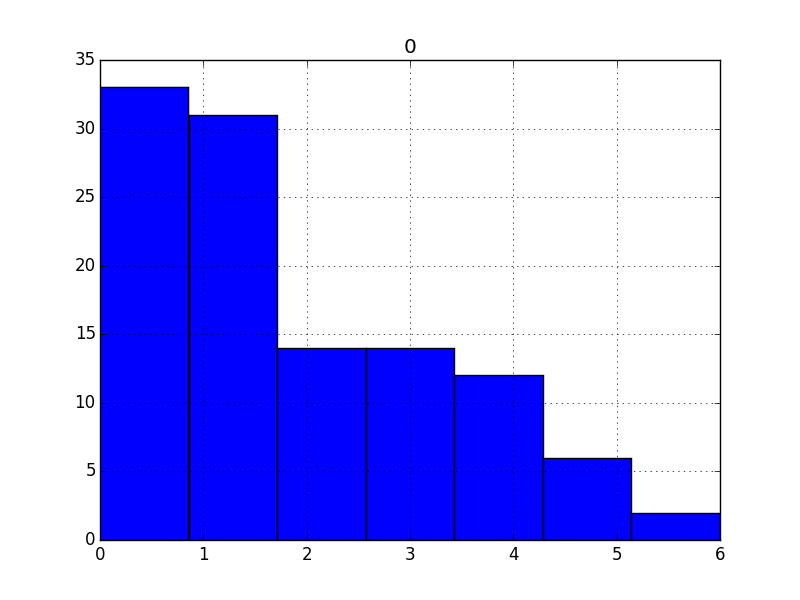
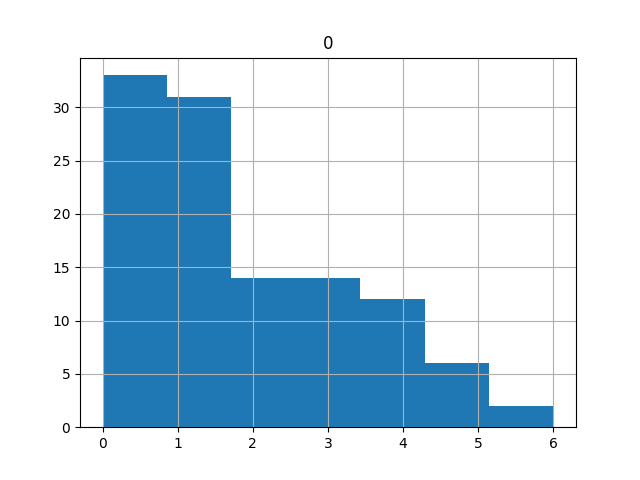
-

diff --git a/stat/stat_100_coal/degisim_noktasi_analizi__changepoint_analysis_.html b/stat/stat_100_coal/degisim_noktasi_analizi__changepoint_analysis_.html
@@ -138,29 +138,23 @@ class="sourceCode python"><code class="sourceCode python"><span id="cb3-1"><a hr
 <span id="cb3-19"><a href="#cb3-19" aria-hidden="true" tabindex="-1"></a></span>
 <span id="cb3-20"><a href="#cb3-20" aria-hidden="true" tabindex="-1"></a>out <span class="op">=</span> minimize(residual, fit_params, args<span class="op">=</span>(coal,coal,))</span>
 <span id="cb3-21"><a href="#cb3-21" aria-hidden="true" tabindex="-1"></a>report_fit(fit_params)</span></code></pre></div>
-<pre><code>[[Variables]]
-    m1:     0.51428096 +/- 0.406949 (79.13%) (init= 0.5)
-    lam1:   1.00000004 +/- 0.557045 (55.70%) (init= 1)
-    lam2:   3.35150806 +/- 1.791094 (53.44%) (init= 2)
-[[Correlations]] (unreported correlations are &lt;  0.100)
-    C(m1, lam1)                  =  0.905 
-    C(m1, lam2)                  =  0.878 
-    C(lam1, lam2)                =  0.772 </code></pre>
+<pre class="text"><code>[[Variables]]
+    m1:    0.50000000 (init = 0.5)
+    lam1:  1.00000000 (init = 1)
+    lam2:  2.00000000 (init = 2)</code></pre>
 <p>Sonuçlar yaklaşık <span
 class="math inline">\(\lambda_1=1,\lambda_2=3\)</span> (tam sayıya
 yuvarladık, çünkü olay sayısı tam sayı olmalı). Bu iki dağılımı verinini
 normalize edilmiş histogramı üzerinde gösterirsek,</p>
 <div class="sourceCode" id="cb5"><pre
 class="sourceCode python"><code class="sourceCode python"><span id="cb5-1"><a href="#cb5-1" aria-hidden="true" tabindex="-1"></a><span class="im">from</span> scipy.stats.distributions <span class="im">import</span> poisson</span>
-<span id="cb5-2"><a href="#cb5-2" aria-hidden="true" tabindex="-1"></a>coal.hist(bins<span class="op">=</span><span class="dv">7</span>,normed<span class="op">=</span><span class="va">True</span>)</span>
-<span id="cb5-3"><a href="#cb5-3" aria-hidden="true" tabindex="-1"></a>plt.hold(<span class="va">True</span>)</span>
-<span id="cb5-4"><a href="#cb5-4" aria-hidden="true" tabindex="-1"></a>p <span class="op">=</span> poisson(<span class="fl">1.0</span>)</span>
-<span id="cb5-5"><a href="#cb5-5" aria-hidden="true" tabindex="-1"></a>x <span class="op">=</span> np.arange(<span class="dv">1</span>,<span class="dv">10</span>)</span>
-<span id="cb5-6"><a href="#cb5-6" aria-hidden="true" tabindex="-1"></a>plt.plot(x, p.pmf(x))</span>
-<span id="cb5-7"><a href="#cb5-7" aria-hidden="true" tabindex="-1"></a>p <span class="op">=</span> poisson(<span class="fl">3.0</span>)</span>
-<span id="cb5-8"><a href="#cb5-8" aria-hidden="true" tabindex="-1"></a>plt.hold(<span class="va">True</span>)</span>
-<span id="cb5-9"><a href="#cb5-9" aria-hidden="true" tabindex="-1"></a>plt.plot(x, p.pmf(x))</span>
-<span id="cb5-10"><a href="#cb5-10" aria-hidden="true" tabindex="-1"></a>plt.savefig(<span class="st">&#39;stat_coal_03.png&#39;</span>)</span></code></pre></div>
+<span id="cb5-2"><a href="#cb5-2" aria-hidden="true" tabindex="-1"></a>coal.hist(bins<span class="op">=</span><span class="dv">7</span>,density<span class="op">=</span><span class="va">True</span>)</span>
+<span id="cb5-3"><a href="#cb5-3" aria-hidden="true" tabindex="-1"></a>p <span class="op">=</span> poisson(<span class="fl">1.0</span>)</span>
+<span id="cb5-4"><a href="#cb5-4" aria-hidden="true" tabindex="-1"></a>x <span class="op">=</span> np.arange(<span class="dv">1</span>,<span class="dv">10</span>)</span>
+<span id="cb5-5"><a href="#cb5-5" aria-hidden="true" tabindex="-1"></a>plt.plot(x, p.pmf(x))</span>
+<span id="cb5-6"><a href="#cb5-6" aria-hidden="true" tabindex="-1"></a>p <span class="op">=</span> poisson(<span class="fl">3.0</span>)</span>
+<span id="cb5-7"><a href="#cb5-7" aria-hidden="true" tabindex="-1"></a>plt.plot(x, p.pmf(x))</span>
+<span id="cb5-8"><a href="#cb5-8" aria-hidden="true" tabindex="-1"></a>plt.savefig(<span class="st">&#39;stat_coal_03.png&#39;</span>)</span></code></pre></div>
 <p><img src="stat_coal_03.png" /></p>
 <p>Peki bu bulguyu şimdi değişim noktası keşfine nasıl çevireceğiz?
 Dikkat, üstteki iki dağılımın ayrıldığı <span
@@ -217,8 +211,8 @@ class="sourceCode python"><code class="sourceCode python"><span id="cb6-1"><a hr
 <span id="cb6-12"><a href="#cb6-12" aria-hidden="true" tabindex="-1"></a>     chi <span class="op">=</span> z1<span class="op">**</span><span class="dv">2</span><span class="op">+</span>z2<span class="op">**</span><span class="dv">2</span></span>
 <span id="cb6-13"><a href="#cb6-13" aria-hidden="true" tabindex="-1"></a>     res.append(<span class="bu">float</span>(<span class="dv">1</span><span class="op">-</span>chi2.cdf(chi,dof)))</span>
 <span id="cb6-14"><a href="#cb6-14" aria-hidden="true" tabindex="-1"></a></span>
-<span id="cb6-15"><a href="#cb6-15" aria-hidden="true" tabindex="-1"></a><span class="bu">print</span> <span class="dv">1851</span> <span class="op">+</span> cutoffs[np.array(res).argmax()]</span></code></pre></div>
-<pre><code>1885</code></pre>
+<span id="cb6-15"><a href="#cb6-15" aria-hidden="true" tabindex="-1"></a><span class="bu">print</span> (<span class="dv">1851</span> <span class="op">+</span> cutoffs[np.array(res).argmax()])</span></code></pre></div>
+<pre class="text"><code>1885</code></pre>
 <p>Tarihten biliyoruz ki değişimin sebebi büyük ihtimalle İngiltere’de
 1887 yılında kanunlaşan <em>Kömür Madenleri Yasası</em>’dır [3].
 Yakınlık fena değil.</p>
@@ -459,11 +453,11 @@ class="sourceCode python"><code class="sourceCode python"><span id="cb8-1"><a hr
 <span id="cb8-32"><a href="#cb8-32" aria-hidden="true" tabindex="-1"></a>        <span class="co"># sample</span></span>
 <span id="cb8-33"><a href="#cb8-33" aria-hidden="true" tabindex="-1"></a>        zz <span class="op">=</span> z <span class="op">/</span> <span class="bu">sum</span>(z)</span>
 <span id="cb8-34"><a href="#cb8-34" aria-hidden="true" tabindex="-1"></a>        k <span class="op">=</span> w_choice(zz)</span>
-<span id="cb8-35"><a href="#cb8-35" aria-hidden="true" tabindex="-1"></a>    <span class="bu">print</span> <span class="bu">float</span>(theta), <span class="bu">float</span>(lam), <span class="bu">float</span>(k)</span>
+<span id="cb8-35"><a href="#cb8-35" aria-hidden="true" tabindex="-1"></a>    <span class="bu">print</span> (<span class="bu">float</span>(theta), <span class="bu">float</span>(lam), <span class="bu">float</span>(k))</span>
 <span id="cb8-36"><a href="#cb8-36" aria-hidden="true" tabindex="-1"></a>                </span>
 <span id="cb8-37"><a href="#cb8-37" aria-hidden="true" tabindex="-1"></a>data <span class="op">=</span> np.loadtxt(<span class="st">&quot;coal.txt&quot;</span>)</span>
 <span id="cb8-38"><a href="#cb8-38" aria-hidden="true" tabindex="-1"></a>coal(<span class="dv">1100</span>, data, init<span class="op">=</span>[<span class="dv">1</span>,<span class="dv">1</span>,<span class="dv">30</span>], a1<span class="op">=</span><span class="dv">1</span>,a2<span class="op">=</span><span class="dv">1</span>,b1<span class="op">=</span><span class="dv">1</span>,b2<span class="op">=</span><span class="dv">1</span>)</span></code></pre></div>
-<pre><code>3.32561369453 0.931821137936 42.0</code></pre>
+<pre class="text"><code>3.3256136945319414 0.9318211379358856 42.0</code></pre>
 <p>Kodları işletince elimize k = 42 değeri geçecek, yani değişim anı
 1851+42 = 1893 senesidir. Kaynaklar:</p>
 <p>[1] Ioana A. Cosma, Ludger Evers, <em>Markov Chain Monte Carlo

diff --git a/stat/stat_100_coal/stat_100_coal.html b/stat/stat_100_coal/stat_100_coal.html
@@ -138,29 +138,23 @@ class="sourceCode python"><code class="sourceCode python"><span id="cb3-1"><a hr
 <span id="cb3-19"><a href="#cb3-19" aria-hidden="true" tabindex="-1"></a></span>
 <span id="cb3-20"><a href="#cb3-20" aria-hidden="true" tabindex="-1"></a>out <span class="op">=</span> minimize(residual, fit_params, args<span class="op">=</span>(coal,coal,))</span>
 <span id="cb3-21"><a href="#cb3-21" aria-hidden="true" tabindex="-1"></a>report_fit(fit_params)</span></code></pre></div>
-<pre><code>[[Variables]]
-    m1:     0.51428096 +/- 0.406949 (79.13%) (init= 0.5)
-    lam1:   1.00000004 +/- 0.557045 (55.70%) (init= 1)
-    lam2:   3.35150806 +/- 1.791094 (53.44%) (init= 2)
-[[Correlations]] (unreported correlations are &lt;  0.100)
-    C(m1, lam1)                  =  0.905 
-    C(m1, lam2)                  =  0.878 
-    C(lam1, lam2)                =  0.772 </code></pre>
+<pre class="text"><code>[[Variables]]
+    m1:    0.50000000 (init = 0.5)
+    lam1:  1.00000000 (init = 1)
+    lam2:  2.00000000 (init = 2)</code></pre>
 <p>Sonuçlar yaklaşık <span
 class="math inline">\(\lambda_1=1,\lambda_2=3\)</span> (tam sayıya
 yuvarladık, çünkü olay sayısı tam sayı olmalı). Bu iki dağılımı verinini
 normalize edilmiş histogramı üzerinde gösterirsek,</p>
 <div class="sourceCode" id="cb5"><pre
 class="sourceCode python"><code class="sourceCode python"><span id="cb5-1"><a href="#cb5-1" aria-hidden="true" tabindex="-1"></a><span class="im">from</span> scipy.stats.distributions <span class="im">import</span> poisson</span>
-<span id="cb5-2"><a href="#cb5-2" aria-hidden="true" tabindex="-1"></a>coal.hist(bins<span class="op">=</span><span class="dv">7</span>,normed<span class="op">=</span><span class="va">True</span>)</span>
-<span id="cb5-3"><a href="#cb5-3" aria-hidden="true" tabindex="-1"></a>plt.hold(<span class="va">True</span>)</span>
-<span id="cb5-4"><a href="#cb5-4" aria-hidden="true" tabindex="-1"></a>p <span class="op">=</span> poisson(<span class="fl">1.0</span>)</span>
-<span id="cb5-5"><a href="#cb5-5" aria-hidden="true" tabindex="-1"></a>x <span class="op">=</span> np.arange(<span class="dv">1</span>,<span class="dv">10</span>)</span>
-<span id="cb5-6"><a href="#cb5-6" aria-hidden="true" tabindex="-1"></a>plt.plot(x, p.pmf(x))</span>
-<span id="cb5-7"><a href="#cb5-7" aria-hidden="true" tabindex="-1"></a>p <span class="op">=</span> poisson(<span class="fl">3.0</span>)</span>
-<span id="cb5-8"><a href="#cb5-8" aria-hidden="true" tabindex="-1"></a>plt.hold(<span class="va">True</span>)</span>
-<span id="cb5-9"><a href="#cb5-9" aria-hidden="true" tabindex="-1"></a>plt.plot(x, p.pmf(x))</span>
-<span id="cb5-10"><a href="#cb5-10" aria-hidden="true" tabindex="-1"></a>plt.savefig(<span class="st">&#39;stat_coal_03.png&#39;</span>)</span></code></pre></div>
+<span id="cb5-2"><a href="#cb5-2" aria-hidden="true" tabindex="-1"></a>coal.hist(bins<span class="op">=</span><span class="dv">7</span>,density<span class="op">=</span><span class="va">True</span>)</span>
+<span id="cb5-3"><a href="#cb5-3" aria-hidden="true" tabindex="-1"></a>p <span class="op">=</span> poisson(<span class="fl">1.0</span>)</span>
+<span id="cb5-4"><a href="#cb5-4" aria-hidden="true" tabindex="-1"></a>x <span class="op">=</span> np.arange(<span class="dv">1</span>,<span class="dv">10</span>)</span>
+<span id="cb5-5"><a href="#cb5-5" aria-hidden="true" tabindex="-1"></a>plt.plot(x, p.pmf(x))</span>
+<span id="cb5-6"><a href="#cb5-6" aria-hidden="true" tabindex="-1"></a>p <span class="op">=</span> poisson(<span class="fl">3.0</span>)</span>
+<span id="cb5-7"><a href="#cb5-7" aria-hidden="true" tabindex="-1"></a>plt.plot(x, p.pmf(x))</span>
+<span id="cb5-8"><a href="#cb5-8" aria-hidden="true" tabindex="-1"></a>plt.savefig(<span class="st">&#39;stat_coal_03.png&#39;</span>)</span></code></pre></div>
 <p><img src="stat_coal_03.png" /></p>
 <p>Peki bu bulguyu şimdi değişim noktası keşfine nasıl çevireceğiz?
 Dikkat, üstteki iki dağılımın ayrıldığı <span
@@ -217,8 +211,8 @@ class="sourceCode python"><code class="sourceCode python"><span id="cb6-1"><a hr
 <span id="cb6-12"><a href="#cb6-12" aria-hidden="true" tabindex="-1"></a>     chi <span class="op">=</span> z1<span class="op">**</span><span class="dv">2</span><span class="op">+</span>z2<span class="op">**</span><span class="dv">2</span></span>
 <span id="cb6-13"><a href="#cb6-13" aria-hidden="true" tabindex="-1"></a>     res.append(<span class="bu">float</span>(<span class="dv">1</span><span class="op">-</span>chi2.cdf(chi,dof)))</span>
 <span id="cb6-14"><a href="#cb6-14" aria-hidden="true" tabindex="-1"></a></span>
-<span id="cb6-15"><a href="#cb6-15" aria-hidden="true" tabindex="-1"></a><span class="bu">print</span> <span class="dv">1851</span> <span class="op">+</span> cutoffs[np.array(res).argmax()]</span></code></pre></div>
-<pre><code>1885</code></pre>
+<span id="cb6-15"><a href="#cb6-15" aria-hidden="true" tabindex="-1"></a><span class="bu">print</span> (<span class="dv">1851</span> <span class="op">+</span> cutoffs[np.array(res).argmax()])</span></code></pre></div>
+<pre class="text"><code>1885</code></pre>
 <p>Tarihten biliyoruz ki değişimin sebebi büyük ihtimalle İngiltere’de
 1887 yılında kanunlaşan <em>Kömür Madenleri Yasası</em>’dır [3].
 Yakınlık fena değil.</p>
@@ -459,11 +453,11 @@ class="sourceCode python"><code class="sourceCode python"><span id="cb8-1"><a hr
 <span id="cb8-32"><a href="#cb8-32" aria-hidden="true" tabindex="-1"></a>        <span class="co"># sample</span></span>
 <span id="cb8-33"><a href="#cb8-33" aria-hidden="true" tabindex="-1"></a>        zz <span class="op">=</span> z <span class="op">/</span> <span class="bu">sum</span>(z)</span>
 <span id="cb8-34"><a href="#cb8-34" aria-hidden="true" tabindex="-1"></a>        k <span class="op">=</span> w_choice(zz)</span>
-<span id="cb8-35"><a href="#cb8-35" aria-hidden="true" tabindex="-1"></a>    <span class="bu">print</span> <span class="bu">float</span>(theta), <span class="bu">float</span>(lam), <span class="bu">float</span>(k)</span>
+<span id="cb8-35"><a href="#cb8-35" aria-hidden="true" tabindex="-1"></a>    <span class="bu">print</span> (<span class="bu">float</span>(theta), <span class="bu">float</span>(lam), <span class="bu">float</span>(k))</span>
 <span id="cb8-36"><a href="#cb8-36" aria-hidden="true" tabindex="-1"></a>                </span>
 <span id="cb8-37"><a href="#cb8-37" aria-hidden="true" tabindex="-1"></a>data <span class="op">=</span> np.loadtxt(<span class="st">&quot;coal.txt&quot;</span>)</span>
 <span id="cb8-38"><a href="#cb8-38" aria-hidden="true" tabindex="-1"></a>coal(<span class="dv">1100</span>, data, init<span class="op">=</span>[<span class="dv">1</span>,<span class="dv">1</span>,<span class="dv">30</span>], a1<span class="op">=</span><span class="dv">1</span>,a2<span class="op">=</span><span class="dv">1</span>,b1<span class="op">=</span><span class="dv">1</span>,b2<span class="op">=</span><span class="dv">1</span>)</span></code></pre></div>
-<pre><code>3.32561369453 0.931821137936 42.0</code></pre>
+<pre class="text"><code>3.3256136945319414 0.9318211379358856 42.0</code></pre>
 <p>Kodları işletince elimize k = 42 değeri geçecek, yani değişim anı
 1851+42 = 1893 senesidir. Kaynaklar:</p>
 <p>[1] Ioana A. Cosma, Ludger Evers, <em>Markov Chain Monte Carlo
